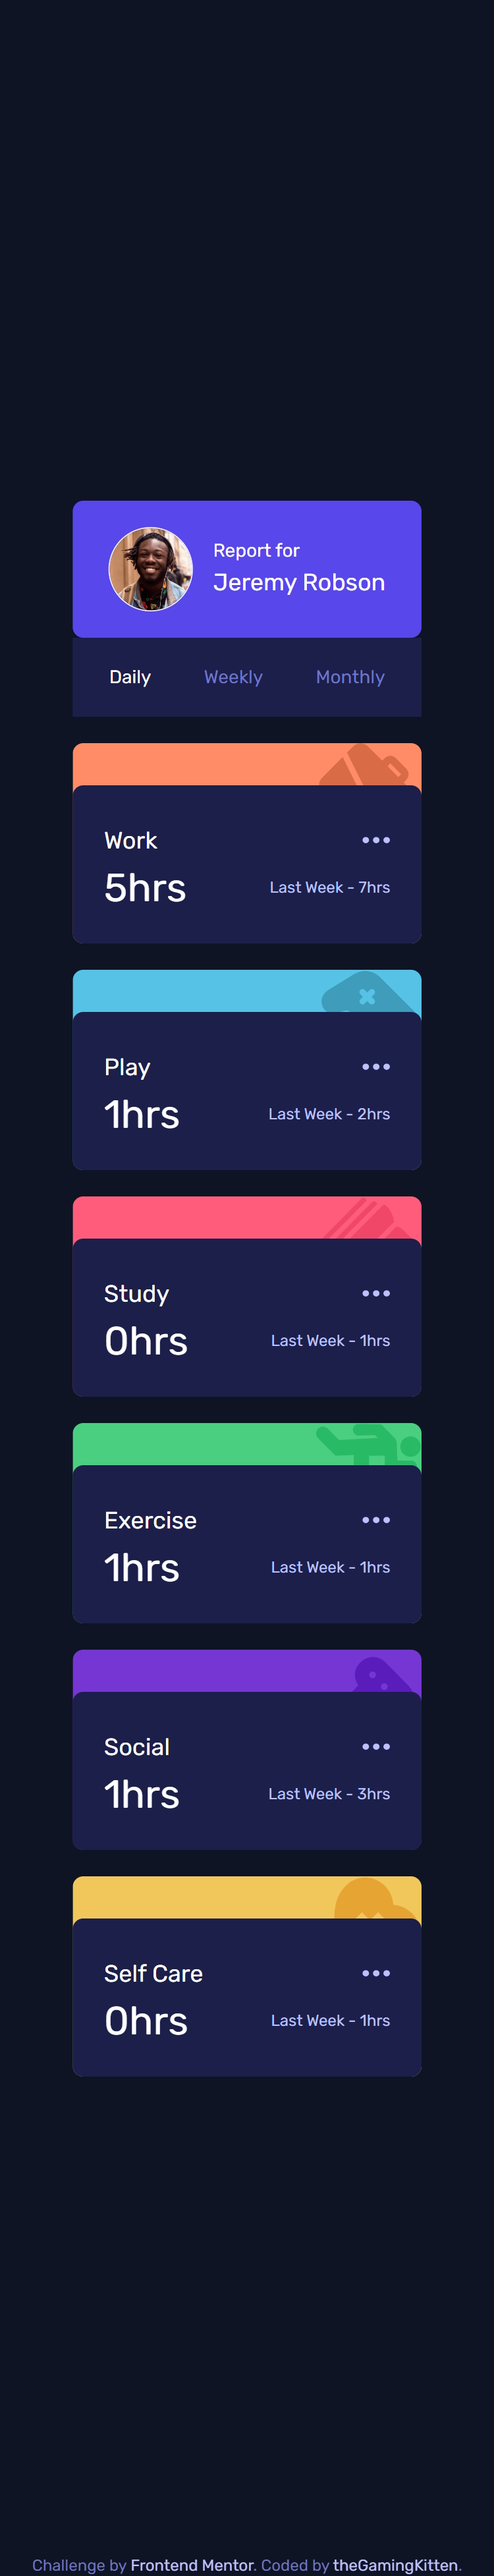
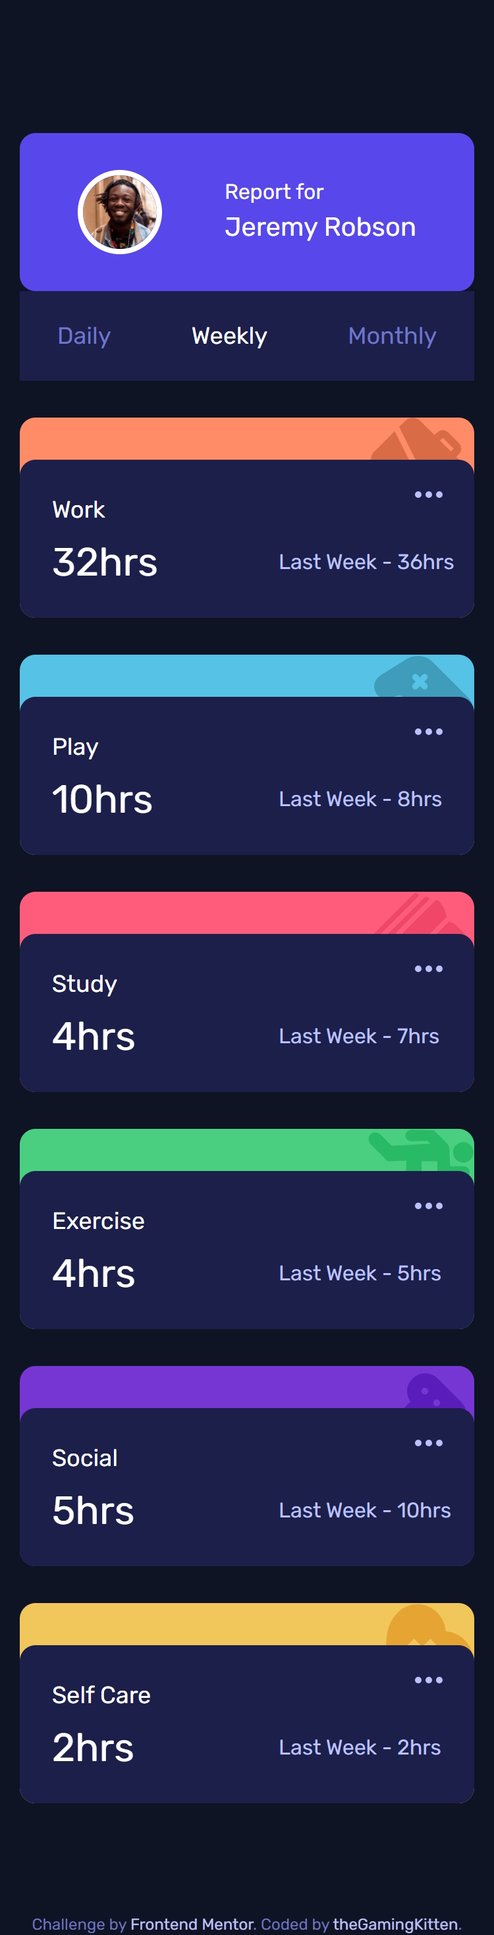
finishing touches

diff --git a/src/components/ProfileCard.jsx b/src/components/ProfileCard.jsx
@@ -2,18 +2,18 @@ export default function ProfileCard({ imgSrc, fullName, handleClick, timeframe }
 
     return (
         <>
-            <div className='w-full rounded-lg md:row-span-2'>
-            <div className='bg-blue p-5 rounded-lg flex flex-row items-center justify-around md:flex-col'>
+            <div className='w-full rounded-xl md:row-span-2'>
+            <div className='bg-blue px-5 py-7 rounded-xl flex flex-row items-center justify-around md:flex-col'>
             <img 
               src={imgSrc} 
-              className='w-16 rounded-full border border-white inline-block md:self-start'
+              className='w-16 rounded-full border-4 border-white inline-block md:self-start md:mb-10'
             />
             <span className='font-light'>
-              <span className='block text-sm'>Report for</span>
-              <span className='text-lg'>{fullName}</span>
+              <span className='block text-base md:text-sm'>Report for</span>
+              <span className='text-xl md:text-3xl'>{fullName}</span>
             </span>
           </div>
-          <div className='px-7 py-5 text-sm text-desaturated-blue bg-dark-blue flex flex-row items-center justify-between md:flex-col md:items-start md:gap-3'>
+          <div className='px-7 py-5 text-lg text-desaturated-blue bg-dark-blue flex flex-row items-center justify-between md:flex-col md:items-start md:gap-3'>
             <button onClick={() => handleClick("daily")} className={`hover:cursor-pointer hover:text-white ${timeframe === "daily" ? "text-white": "text-desaturated-blue"}`}>Daily</button>
             <button onClick={() => handleClick("weekly")} className={`hover:cursor-pointer hover:text-white ${timeframe === "weekly" ? "text-white": "text-desaturated-blue"}`}>Weekly</button>
             <button onClick={() => handleClick("monthly")} className={`hover:cursor-pointer hover:text-white ${timeframe === "monthly" ? "text-white": "text-desaturated-blue"}`}>Monthly</button>

diff --git a/src/components/CategoryCard.jsx b/src/components/CategoryCard.jsx
@@ -16,12 +16,12 @@ export default function CategoryCard({category, bgColor, bgImage, data, timefram
       }
     return (
         <>
-        <div className={`${bgColor} ${bgImage} pt-8 bg-no-repeat bg-right-top flex flex-col justify-end rounded-lg h-13 hover:cursor-pointer`}>                          
-            <div className='bg-dark-blue hover:brightness-150 rounded-lg grid grid-cols-2 grid-rows-2 p-6 gap-x-8 items-center justify-between'>
-                <span className='font-normal'>{category}</span>
-                <img className='justify-self-end hover:cursor-pointer' src={dotsSvg}/>
-                <span className='text-3xl font-light'>{currentValue}hrs</span>
-                <span className='text-pale-blue text-xs justify-self-end'>Last Week - {previousValue}hrs</span>
+        <div className={`${bgColor} ${bgImage} pt-8 bg-no-repeat bg-right-top flex flex-col justify-end rounded-xl h-13 hover:cursor-pointer`}>                          
+            <div className='bg-dark-blue hover:brightness-150 rounded-xl grid grid-cols-2 grid-rows-2 p-6 gap-x-12 justify-between md:grid-cols-1 md:grid-rows-3'>
+                <span className='font-normal md:mb-3 md:text-sm'>{category}</span>
+                <span className='hover:cursor-pointer justify-self-end md:row-start-1 md:row-span-3'><img src={dotsSvg}/></span>
+                <span className='text-3xl font-light md:text-4xl'>{currentValue}hrs</span>
+                <span className='text-pale-blue text-base font-light whitespace-nowrap self-center md:text-sm'>Last Week - {previousValue}hrs</span>
             </div>
         </div>
         </>

diff --git a/src/App.jsx b/src/App.jsx
@@ -11,7 +11,7 @@ export default function App() {
   
   return (
     <>
-      <main className='grid gap-5 md:grid-flow-row md:grid-cols-4'>
+      <main className='grid gap-7 w-[95%] m-auto md:grid-flow-row md:grid-cols-4'>
         <ProfileCard
           imgSrc={imgSrc}
           fullName="Jeremy Robson"

diff --git a/README.md b/README.md
@@ -48,15 +48,15 @@ Users should be able to:
 
 ### What I learned
 
--
+- That I can finish any challenge even if I need a longer break
 
 ### Continued development
 
--
+- Focus more on getting the final product to look as close to the given design as possible. Had to rush this because I just wanted to finish this challenge after a long break and not give up
 
 ### Useful resources
 
-- [Example resource 1](https://www.example.com) - This helped me for XYZ reason. I really liked this pattern and will use it going forward.
+- [Guide to CSS Grid](https://css-tricks.com/snippets/css/complete-guide-grid/) - Needed to use this a lot in this challenge as I still struggle with grid layouts
 
 ## Author
 
